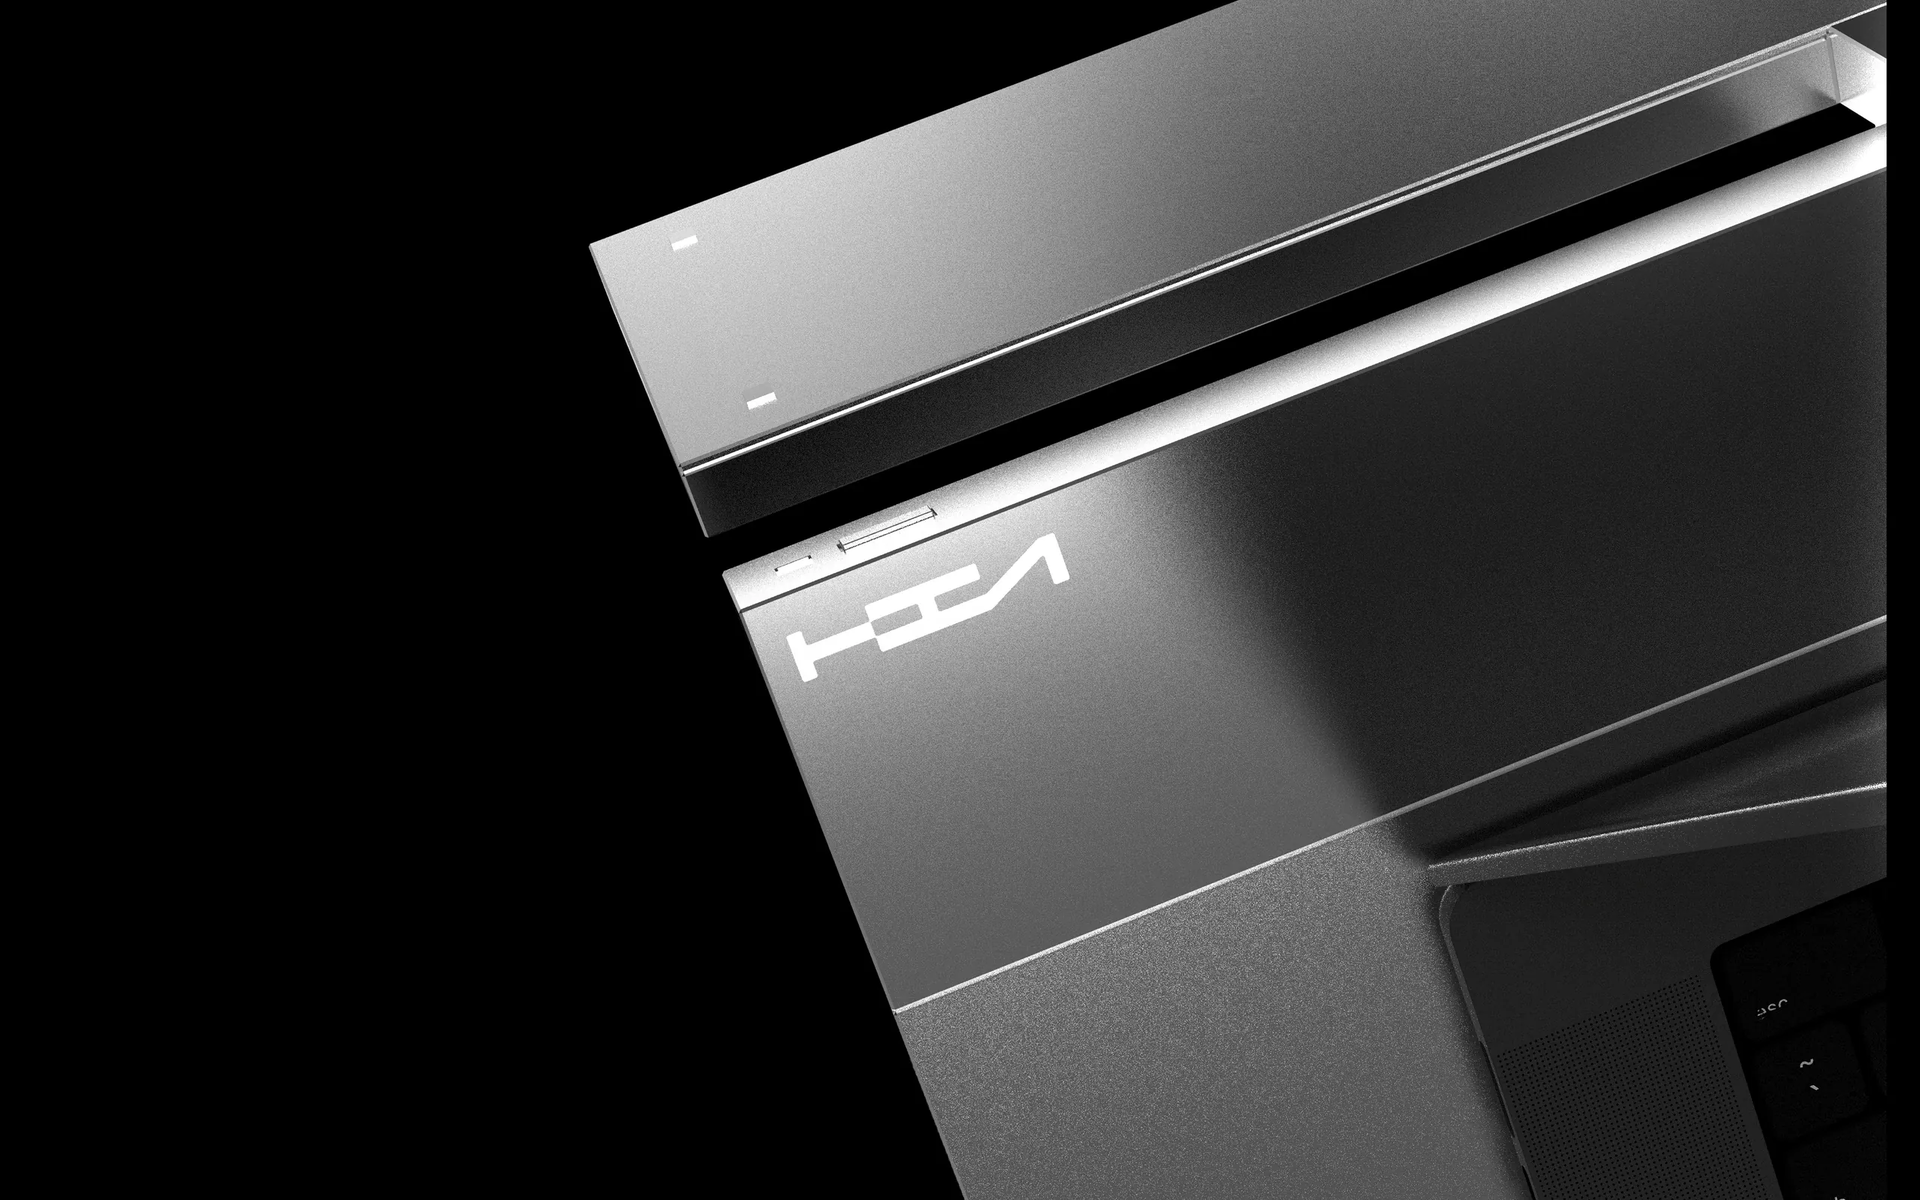
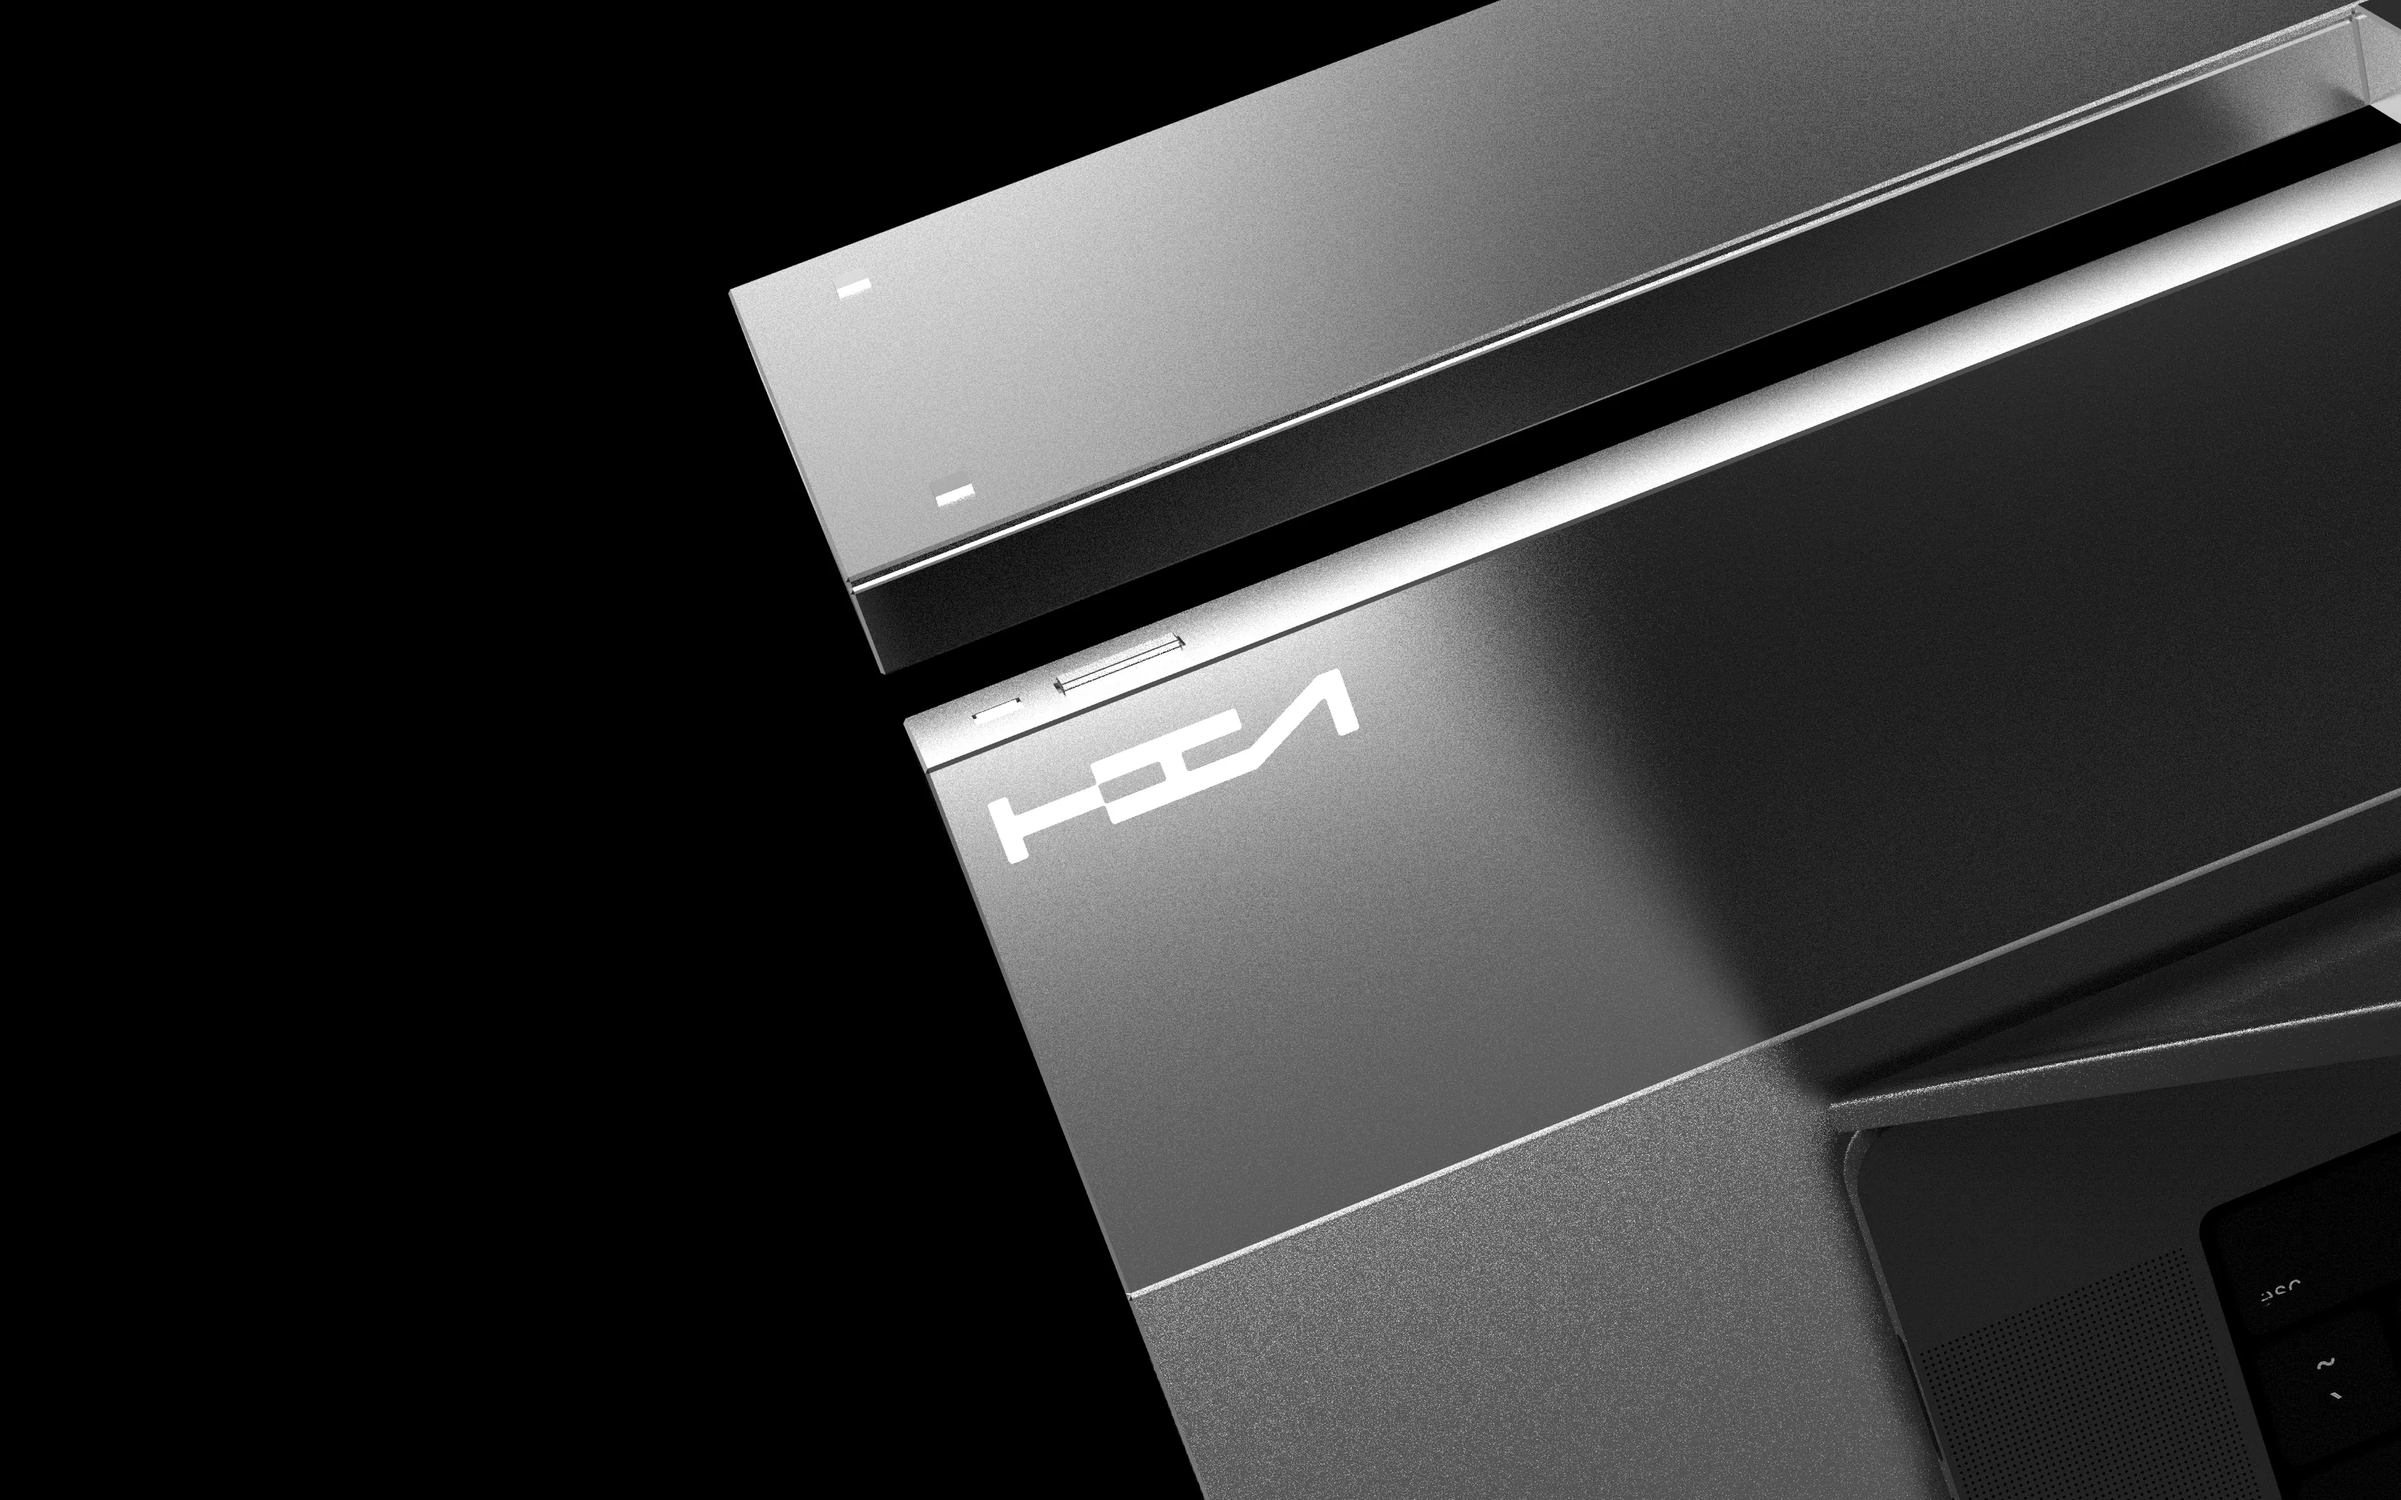
Shop 06/07: full-screen pictures, Portable-style pointer line + glowing square, equal label/line/description gaps, sharper photos from the original renders
Claude-Session: https://claude.ai/code/session_01877NMfYCzRSJ6EX6AActtj

diff --git a/index.html b/index.html
@@ -2701,6 +2701,27 @@ html[data-view="shop"] #navShop span, html[data-view="shop"] #navShop .nav-sq{co
   #pdPage #hx14{margin-top:0 !important;}
 }
 </style>
+<style id="update-2026-11-12-ch67">
+/* 06 Features + 07 Details: pointer line + square exactly like the Portable columns */
+#pdPage .hxf-lines path{stroke:rgba(255,255,255,.22) !important; stroke-width:1 !important;}
+#pdPage .hxf-lines rect{display:none !important;}
+#pdPage .hxf-sq{position:absolute; left:calc(var(--cx)/14.4*1cqw); top:calc(var(--cy)/14.4*1cqw); width:6px; height:6px; margin:-3px 0 0 -3px; background:#FFFBBA;
+  box-shadow:0 0 10px 2px rgba(255,251,186,.5), 0 0 22px 4px rgba(255,251,186,.18); opacity:0; transition:opacity .4s ease; pointer-events:none; z-index:1;}
+#pdPage .hxf-slide.on .hxf-sq, #pdPage #hxPin .hxp-line.on .hxf-sq{opacity:1; transition:opacity .4s ease 1.4s;}
+@media (max-width:680px){ #pdPage .hxf-sq{display:none;} }
+@media (prefers-reduced-motion:reduce){ #pdPage .hxf-sq{transition:none !important;} }
+
+@media (min-width:681px){
+  /* full-screen pictures: one 1440x900 composition scaled to cover the whole screen */
+  #pdPage .hxf-sticky, #pdPage .hxp-sticky{padding:0 !important; justify-content:center; align-items:flex-start !important;} /* wider screens crop the bottom, never the labels at the top */
+  #pdPage .hxf-viewport{flex:none; width:max(100vw,160vh) !important; margin:0 !important;}
+  #pdPage .hxp-stage{flex:none; width:max(100vw,160vh) !important; margin:0 !important;}
+  #pdPage .hxf-stage, #pdPage .hxp-rise{-webkit-mask-image:none !important; mask-image:none !important;}
+  #pdPage .hxf-dots{bottom:calc(100% - 100vh + 76px) !important;}
+  /* label above the line, description below it: same gap on both sides, same left edge, same type in 06 and 07 */
+  #pdPage .hxf-txt p, #pdPage #hxPin .hxp-line .hxf-txt p{margin:0 !important; top:calc(var(--g)/14.4*1cqw - .30em) !important; left:-.05em !important; font-size:max(12.5px,calc(18.9/14.4*1cqw)) !important; line-height:1.45 !important;}
+}
+</style>
 </head>
 <body>
 
@@ -3340,22 +3361,22 @@ html[data-view="shop"] #navShop span, html[data-view="shop"] #navShop .nav-sq{co
     <div class="hxf-slides">
       <article class="hxf-slide on" data-i="0" aria-label="1 / 3">
         <div class="hx-stage hxf-stage">
-          <img class="hxf-img f01" src="assets/f01-lightbar.webp?v=2" alt="세워진 HIN-001과 일체형 LED 라이트바" loading="lazy" decoding="async" draggable="false">
-          <svg class="hxf-lines" viewBox="0 0 1440 900" aria-hidden="true"><path d="M150 181H900L1280 477" pathLength="1"/><rect x="1274" y="471" width="12" height="12" class="sq-y"/></svg>
-          <div class="hxf-txt" style="--x:160;--ly:181"><h3 class="hl" style="--i:0">01. LIGHT BAR</h3><p class="hl" style="--i:1">An integrated LED light bar provides soft, even illumination across your workspace, <br>helping create a more comfortable and focused environment for work.</p></div>
+          <img class="hxf-img f01" src="assets/f01-lightbar.webp?v=3" alt="세워진 HIN-001과 일체형 LED 라이트바" loading="lazy" decoding="async" draggable="false">
+          <svg class="hxf-lines" viewBox="0 0 1440 900" aria-hidden="true"><path d="M150 181H900L1280 477" pathLength="1"/></svg><i class="hxf-sq" style="--cx:1280;--cy:477" aria-hidden="true"></i>
+          <div class="hxf-txt" style="--x:150;--ly:181"><h3 class="hl" style="--i:0">01. LIGHT BAR</h3><p class="hl" style="--i:1">An integrated LED light bar provides soft, even illumination across your workspace, <br>helping create a more comfortable and focused environment for work.</p></div>
         </div>
       </article>
       <article class="hxf-slide" data-i="1" aria-label="2 / 3">
         <div class="hx-stage hxf-stage">
           <img class="hxf-img full" src="assets/f02-power.webp?v=2" alt="라이트 라인이 들어간 HIN-001 배터리 모듈" loading="lazy" decoding="async" draggable="false">
-          <svg class="hxf-lines" viewBox="0 0 1440 900" aria-hidden="true"><path d="M151 180H806L951 384" pathLength="1"/><rect x="945" y="378" width="12" height="12" class="sq-y"/></svg>
-          <div class="hxf-txt" style="--x:159;--ly:180"><h3 class="hl" style="--i:0">02. POWER</h3><p class="hl" style="--i:1">65Wh built-in battery and USB-C connectivity, <br>an uninterrupted workflow wherever you go.</p></div>
+          <svg class="hxf-lines" viewBox="0 0 1440 900" aria-hidden="true"><path d="M150 180H806L951 384" pathLength="1"/></svg><i class="hxf-sq" style="--cx:951;--cy:384" aria-hidden="true"></i>
+          <div class="hxf-txt" style="--x:150;--ly:180"><h3 class="hl" style="--i:0">02. POWER</h3><p class="hl" style="--i:1">65Wh built-in battery and USB-C connectivity, <br>an uninterrupted workflow wherever you go.</p></div>
         </div>
       </article>
       <article class="hxf-slide" data-i="2" aria-label="3 / 3">
         <div class="hx-stage hxf-stage">
           <img class="hxf-img full" src="assets/f03-mousepad.webp" alt="본체에서 분리된 HIN-001 마우스패드" loading="lazy" decoding="async" draggable="false">
-          <svg class="hxf-lines" viewBox="0 0 1440 900" aria-hidden="true"><path d="M1100 128H576L492 357" pathLength="1"/><rect x="486" y="351" width="12" height="12" class="sq-y"/></svg>
+          <svg class="hxf-lines" viewBox="0 0 1440 900" aria-hidden="true"><path d="M1100 128H576L492 357" pathLength="1"/></svg><i class="hxf-sq" style="--cx:492;--cy:357" aria-hidden="true"></i>
           <div class="hxf-txt r" style="--rx:1100;--ly:128"><h3 class="hl" style="--i:0">03. MOUSE PAD</h3><p class="hl" style="--i:1">A detachable mouse pad that adapts <br>to different spaces and working needs.</p></div>
         </div>
       </article>
@@ -3373,21 +3394,21 @@ html[data-view="shop"] #navShop span, html[data-view="shop"] #navShop .nav-sq{co
     <div class="hx-stage hxp-stage">
       <div class="hxp-rise">
         <div class="hxp-img on" data-i="0"><img class="cover" src="assets/d01-quick.webp?v=2" alt="펼쳐진 HIN-001 본체와 분리된 마우스패드, 라이트 모듈" loading="lazy" decoding="async"></div>
-        <div class="hxp-img" data-i="1"><img class="cover" src="assets/d02-mark.webp?v=3" alt="HIN-001 상단 모듈에 각인된 HIN 마크" loading="lazy" decoding="async"></div>
-        <div class="hxp-img" data-i="2"><i class="hxp-glow" aria-hidden="true"></i><img class="d03" src="assets/d03-stable.webp?v=3" alt="노트북을 올린 HIN-001 정면" loading="lazy" decoding="async"></div>
+        <div class="hxp-img" data-i="1"><img class="cover" src="assets/d02-mark.webp?v=4" alt="HIN-001 상단 모듈에 각인된 HIN 마크" loading="lazy" decoding="async"></div>
+        <div class="hxp-img" data-i="2"><i class="hxp-glow" aria-hidden="true"></i><img class="d03" src="assets/d03-stable.webp?v=4" alt="노트북을 올린 HIN-001 정면" loading="lazy" decoding="async"></div>
       </div>
       <i class="hxp-fade" aria-hidden="true"></i>
       <div class="hxp-line on" data-i="0">
-        <svg class="hxf-lines" viewBox="0 0 1440 900" aria-hidden="true"><path d="M150 181H690L830 450" pathLength="1"/><rect x="824" y="444" width="12" height="12" class="sq-y"/></svg>
-        <div class="hxf-txt" style="--x:160;--ly:181"><h3 class="hl" style="--i:0">04. QUICK SETTING</h3><p class="hl" style="--i:1">Designed to cut the transition time from the moment you arrive <br>to the moment you start working.</p></div>
+        <svg class="hxf-lines" viewBox="0 0 1440 900" aria-hidden="true"><path d="M150 181H690L830 450" pathLength="1"/></svg><i class="hxf-sq" style="--cx:830;--cy:450" aria-hidden="true"></i>
+        <div class="hxf-txt" style="--x:150;--ly:181"><h3 class="hl" style="--i:0">04. QUICK SETTING</h3><p class="hl" style="--i:1">Designed to cut the transition time from the moment you arrive <br>to the moment you start working.</p></div>
       </div>
       <div class="hxp-line" data-i="1">
-        <svg class="hxf-lines" viewBox="0 0 1440 900" aria-hidden="true"><path d="M150 181H640L780 500" pathLength="1"/><rect x="774" y="494" width="12" height="12" class="sq-y"/></svg>
-        <div class="hxf-txt" style="--x:160;--ly:181"><h3 class="hl" style="--i:0">05. HIN MARK</h3><p class="hl" style="--i:1">The HIN mark, carrying the identity of the brand, <br>is engraved on the top module.</p></div>
+        <svg class="hxf-lines" viewBox="0 0 1440 900" aria-hidden="true"><path d="M150 600H520L780 500" pathLength="1"/></svg><i class="hxf-sq" style="--cx:780;--cy:500" aria-hidden="true"></i>
+        <div class="hxf-txt" style="--x:150;--ly:600"><h3 class="hl" style="--i:0">05. HIN MARK</h3><p class="hl" style="--i:1">The HIN mark, carrying the identity of the brand, <br>is engraved on the top module.</p></div>
       </div>
       <div class="hxp-line" data-i="2">
-        <svg class="hxf-lines" viewBox="0 0 1440 900" aria-hidden="true"><path d="M150 181H550L690 560" pathLength="1"/><rect x="684" y="554" width="12" height="12" class="sq-y"/></svg>
-        <div class="hxf-txt" style="--x:160;--ly:181"><h3 class="hl" style="--i:0">06. STABLE STRUCTURE</h3><p class="hl" style="--i:1">Provides a stable working environment, <br>even away from a fixed workspace.</p></div>
+        <svg class="hxf-lines" viewBox="0 0 1440 900" aria-hidden="true"><path d="M150 181H550L690 560" pathLength="1"/></svg><i class="hxf-sq" style="--cx:690;--cy:560" aria-hidden="true"></i>
+        <div class="hxf-txt" style="--x:150;--ly:181"><h3 class="hl" style="--i:0">06. STABLE STRUCTURE</h3><p class="hl" style="--i:1">Provides a stable working environment, <br>even away from a fixed workspace.</p></div>
       </div>
     </div>
   </div>
